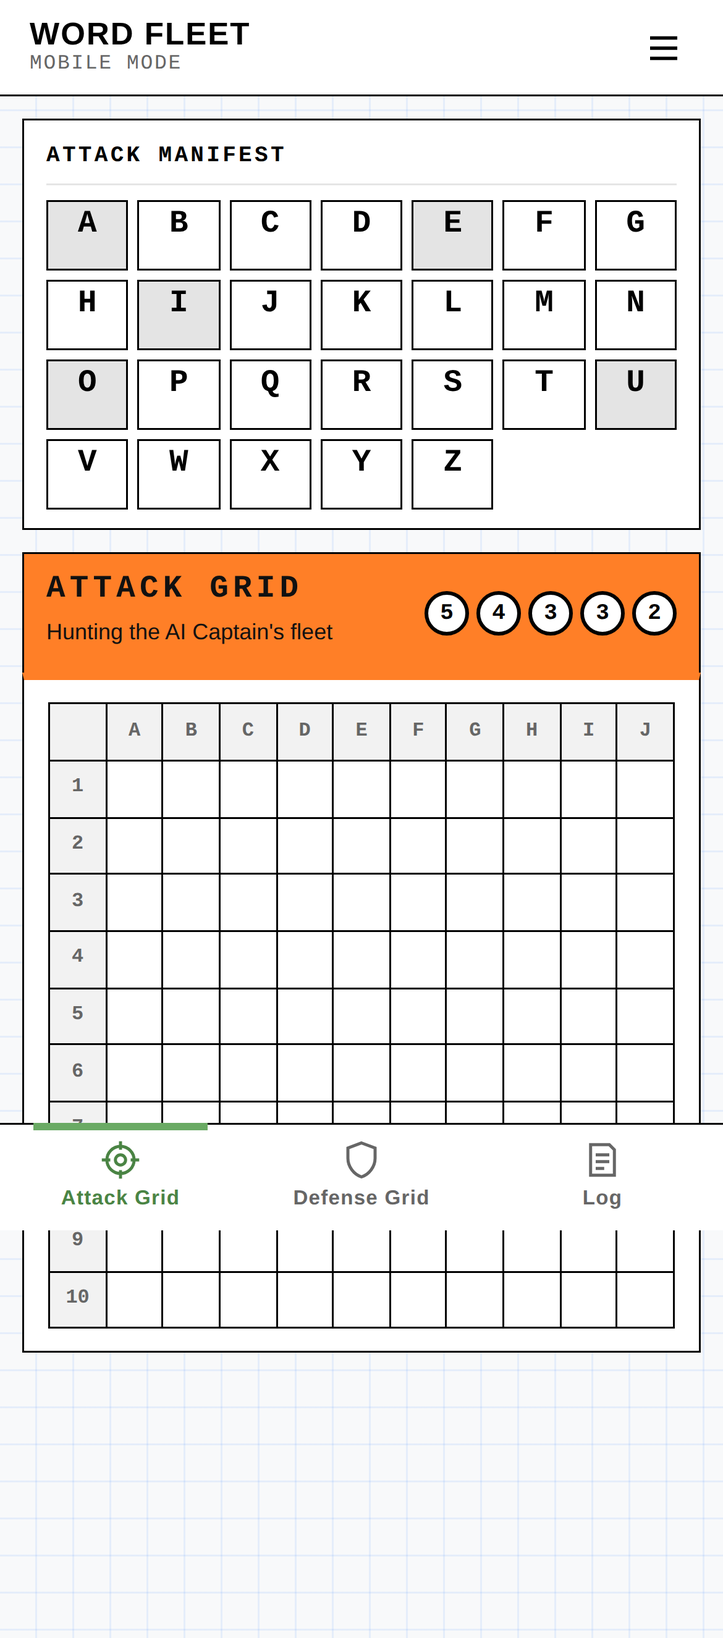
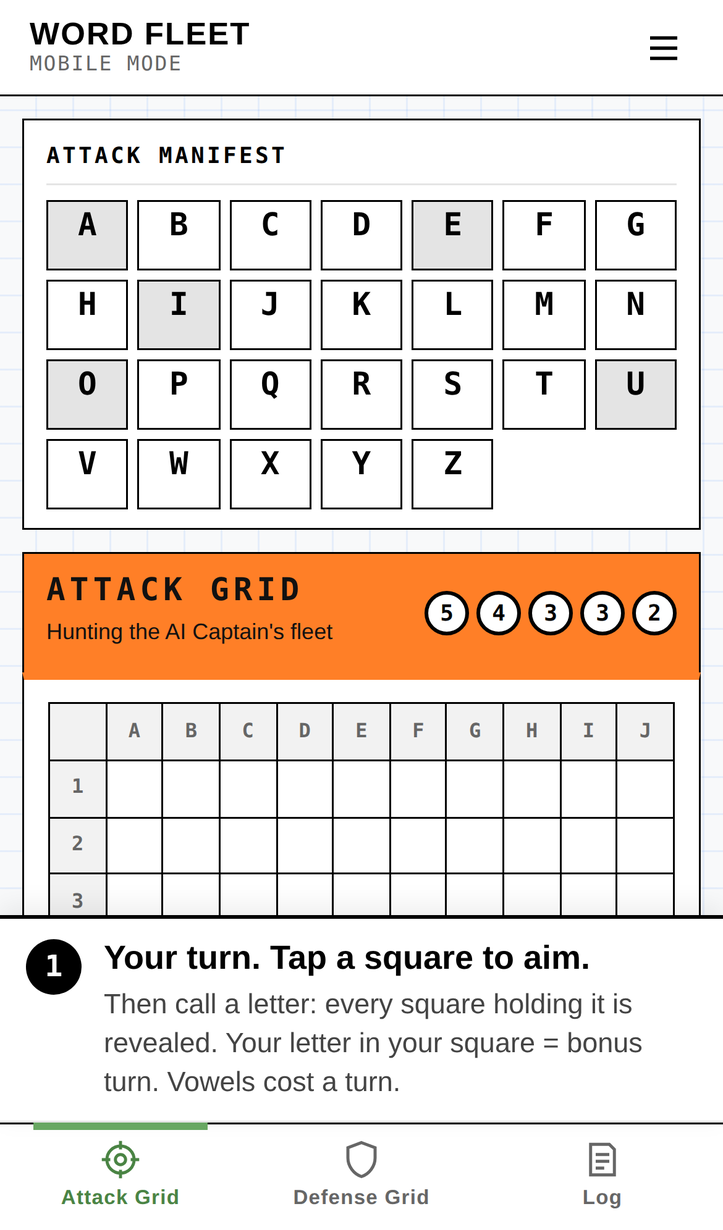
Battle flow overhaul: coach bar replaces the turn popups; grid reveal animation and aim marker; compact letter picker; Solve a Word on demand; AI turn stays on your tab; fading hints with a Hints switch
Claude-Session: https://claude.ai/code/session_013sUGAAEC45a1EJCrQWVj9Q

diff --git a/mobile/app.js b/mobile/app.js
@@ -360,7 +360,7 @@
 
   // Buttons are always one line: text that doesn't fit shrinks (down to 12px) instead of wrapping.
   function fitButtons(root) {
-    var els = (root || document).querySelectorAll('.screen.is-on .btn, #sheet:not([hidden]) .btn');
+    var els = root ? root.querySelectorAll('.btn') : document.querySelectorAll('.screen.is-on .btn, #sheet:not([hidden]) .btn, #coach .btn');
     Array.prototype.forEach.call(els, function (el) {
       el.style.fontSize = '';
       if (!el.offsetParent || el.scrollWidth <= el.clientWidth) return;
@@ -707,17 +707,18 @@
           (t ? pips(t, t, 'is-found') : '<span class="mf-none">none</span>') + '</div>';
       }
       return '<button type="button" class="mf is-callable' + (v ? ' is-vowel' : '') + '" data-letter="' + L + '">' +
-        '<span class="mf-l">' + L + '</span>' + (v ? '<span class="mf-vowel">−1 turn</span>' : '<span class="pips"></span>') + '</button>';
+        '<span class="mf-l">' + L + '</span>' + (v ? '<span class="mf-vowel">\u22121</span>' : '<span class="pips"></span>') + '</button>';
     }).join('');
-    openSheet('<h2>Square ' + coordK(k) + '</h2>' +
-      '<p class="hint" style="margin:2px 0 0">Call a letter. If it\'s in ' + coordK(k) + ', you get a <strong>bonus turn</strong>. Vowels cost your next turn.</p>' +
-      '<div class="manifest manifest--pick">' + letters + '</div>' +
-      '<button class="btn btn--ghost btn--wide" type="button" data-act="close">Cancel</button>', true, '006-MOBILE-CALL-LETTER');
+    // Compact: the target in the title, vowels marked −1, tap outside to cancel.
+    openSheet('<h2>Calling for ' + coordK(k) + '</h2>' +
+      (hintsOn() ? '<p class="hint" style="margin:2px 0 0">If your letter is in ' + coordK(k) + ', you get a bonus turn. Vowels (\u22121) cost your next turn.</p>' : '') +
+      '<div class="manifest manifest--pick">' + letters + '</div>', true, '006-MOBILE-CALL-LETTER');
   }
 
   function renderAttack() {
     var mine = S.turn === 'me';
     var live = canCall();
+    var info = S.result && S.result.info;
     // Ship status: yellow once some of its letters show, green once all of them do.
     $('bubbles').innerHTML = S.foe.ships.map(function (ship, i) {
       var shots = cellsOf(ship).map(function (p) { return S.myShots[key(p.r, p.c)]; });
@@ -731,65 +732,106 @@
       var s = S.myShots[k];
       var o = s && s.letter ? { cls: 'is-bull', text: s.letter, off: true } : s && s.empty ? { cls: 'is-empty', off: true } : {};
       if (ui.sel === k && !(s && s.letter)) o.cls = (o.cls || '') + ' is-target';
-      if (ui.flash && ui.flash.indexOf(k) !== -1) o.cls = (o.cls || '') + ' is-flash';
+      // The story of your call, told on the grid: new letters flip in one by one, and the square
+      // you aimed at keeps a marker (gold ✓ when the letter was there) until your turn ends.
+      var fi = ui.flash ? ui.flash.indexOf(k) : -1;
+      if (fi !== -1) o.cls = (o.cls || '') + ' is-flip is-d' + Math.min(fi, 6);
+      if (info && info.k === k) o.cls = (o.cls || '') + (info.bonus ? ' is-aim is-aim-hit' : ' is-aim');
       return o;
     }, live);
+    if (ui.flash) { clearTimeout(ui.flashTimer); ui.flashTimer = setTimeout(function () { ui.flash = null; }, 1800); }
 
     // Attack Manifest (display only): called letters with one dot per square revealed.
     $('attackManifest').innerHTML = LETTERS.map(function (L) {
       var t = S.myTallies[L], cls = 'mf' + (isVowel(L) && t == null ? ' is-vowel' : '');
       var under = t == null ? '<span class="pips"></span>' : t ? pips(t, t, 'is-found') : '<span class="mf-none">none</span>';
       if (t != null) cls += t ? ' is-done' : ' is-zero';
+      if (info && info.L === L && ui.flash) cls += ' is-pulse';
       return '<div class="' + cls + '"><span class="mf-l">' + L + '</span>' + under + '</div>';
     }).join('');
 
+    // The popup is only for Solve a Word and Demand Surrender; everything else is the coach bar.
     var fp = $('firePanel');
-    // Demand Surrender lives in the \u2630 menu, not in these popups.
-    var pkey, dismissible;
-    if (ui.demand && mine) {
-      pkey = 'demand'; dismissible = true;
-      fp.innerHTML = demandForm();
-    } else if (S.result) {
-      pkey = 'result:' + S.log.length + (S.result.bonus ? ':bonus' : '');
-      dismissible = true;   // close it to look at the grid; the reopen button brings it back
-      fp.innerHTML = '<div class="card-title">' + S.result.title + '</div>' + S.result.html +
-        (S.result.solve ? solveBox() : '') +
-        (S.result.bonus ? '<button class="btn btn--bonus btn--wide" type="button" data-act="panelOk">\u2605 Take Your Bonus Turn</button>'
-                        : mine ? '<button class="btn btn--primary btn--wide" type="button" data-act="endTurn">End Turn</button>'
-                               : '<p class="waiting">AI Captain is choosing a square\u2026</p>');
-    } else if (!mine) {
-      pkey = 'wait'; dismissible = false;
-      fp.innerHTML = '<p class="waiting">AI Captain is choosing a square\u2026</p>';
-    } else {
-      pkey = 'turn:' + S.log.length; dismissible = true;   // a new key every move, so each turn pops up once
-      fp.innerHTML = '<div class="card-title">Your Turn</div>' +   // no count of letters in play
-        (S.notice ? '<p class="notice">' + S.notice + '</p>' : '') +
-        '<p class="hint" style="margin-top:0">Tap a square on the Attack Grid, then call a letter. Every square holding it is revealed. If it\'s in the square you picked, you get a <strong>bonus turn</strong>. Vowels cost your next turn.</p>' +
-        '<button class="btn btn--primary btn--wide" type="button" data-act="panelOk">To the Attack Grid</button>';
-    }
-    ui.panelKey = pkey; ui.panelDismissible = dismissible;
-    $('panelSheet').classList.toggle('is-bonus', !!(S.result && S.result.bonus && !ui.demand));
+    if (ui.demand && mine) fp.innerHTML = demandForm();
+    else if (ui.solving && mine && S.result && S.result.solve) fp.innerHTML = solveBox();
+    else { ui.demand = false; ui.solving = false; fp.innerHTML = ''; }
     refreshPanel();
+    renderCoach();
   }
 
-  // The turn panel is always a popup over the Attack Grid. It stays shut once closed until something new
-  // happens (a new key), and steps aside while the letter picker or menu is open.
   function refreshPanel() {
-    var show = current === 'battle' && S && S.phase === 'battle' && ui.tab === 'Attack' &&
-      ui.panelKey && ui.panelKey !== ui.panelClosed && $('sheet').hidden;
+    var mode = ui.demand ? 'demand' : ui.solving ? 'solve' : '';
+    var show = !!mode && current === 'battle' && S && S.phase === 'battle' && ui.tab === 'Attack' && $('sheet').hidden;
     $('panelSheet').hidden = !show;
     $('panelScrim').hidden = !show;
-    $('panelClose').hidden = !ui.panelDismissible;
-    // A closed result (not a bonus turn) leaves a button above the tabs to bring it back and end the turn.
-    $('panelReopen').hidden = show || !(current === 'battle' && S && S.phase === 'battle' && ui.tab === 'Attack' && $('sheet').hidden &&
-      ui.panelKey && ui.panelKey === ui.panelClosed && /^result:/.test(ui.panelKey) && !/:bonus$/.test(ui.panelKey));
-    $('panelSheet').setAttribute('data-screen', ui.panelKey === 'demand' ? '009-MOBILE-SURRENDER' : '005-MOBILE-ATTACK-POPUP');
+    $('panelSheet').setAttribute('data-screen', mode === 'demand' ? '009-MOBILE-SURRENDER' : '005-MOBILE-SOLVE');
     if (show) fitButtons($('panelSheet'));
+    renderCoach();
   }
   function closePanel() {
-    if (!ui.panelDismissible) return;
-    if (ui.panelKey === 'demand') { ui.demand = false; ui.panelClosed = null; renderAttack(); return; }
-    ui.panelClosed = ui.panelKey; refreshPanel();
+    ui.demand = false; ui.solving = false;
+    renderAttack();
+  }
+
+  // ------------------------------------------------------------
+  // COACH BAR: one line above the tabs that always says what to do next.
+  // ------------------------------------------------------------
+  var HINT_KEY = 'wordfleet-hints', CALLS_KEY = 'wordfleet-calls';
+  function getPref(k) { try { return localStorage.getItem(k); } catch (e) { return null; } }
+  function setPref(k, v) { try { localStorage.setItem(k, v); } catch (e) { /* ignore */ } }
+  // Longer hints for a captain's first two calls ever, or whenever Hints is switched on in the menu.
+  function hintsOn() { return getPref(HINT_KEY) === 'on' || (+getPref(CALLS_KEY) || 0) < 2; }
+
+  function aiMoveLine(ev) {
+    if (ev.skip) return 'You called a vowel, so you lost a turn.';
+    return 'AI Captain called <b>' + ev.letter + '</b> at <b>' + coordK(ev.square) + '</b> \u00b7 tally ' + ev.tally +
+      (ev.bonus ? ' \u00b7 \u2605 bonus turn' : '') + (ev.solve ? ' \u00b7 solved ' + (ev.solve.ok ? ev.solve.word : 'nothing') : '');
+  }
+
+  function renderCoach() {
+    var el = $('coach');
+    var show = current === 'battle' && S && S.phase === 'battle' && !ui.demand && !ui.solving;
+    el.hidden = !show;
+    if (!show) return;
+    var mine = S.turn === 'me', r = S.result, info = r && r.info, hint = hintsOn();
+    var step = '', main = '', pre = [], sub = [], btns = '', cls = '';   // pre: news above the instruction; sub: details below
+    if (!mine) {
+      cls = 'is-wait';
+      main = 'AI Captain is aiming<span class="dots"><i>.</i><i>.</i><i>.</i></span>';
+      if (hint) sub.push('It calls a letter on your fleet. Watch the Defense Grid.');
+    } else if (ui.sel) {
+      step = '2'; main = 'Call a letter for <b>' + coordK(ui.sel) + '</b>';
+    } else if (r && info && info.bonus) {
+      cls = 'is-bonus'; step = '\u2605';
+      main = 'Bonus turn! <b>' + info.L + '</b> was at <b>' + coordK(info.k) + '</b>. Tap another square.';
+      if (r.solveRes) sub.push('Solve ' + r.solveRes.word + ': ' + (r.solveRes.ok ? '<b>Correct.</b>' : '<b>Negative.</b>'));
+      if (r.solve && !r.solveRes) btns += '<button class="btn btn--sm" type="button" data-coach="solve">Solve a Word</button>';
+    } else if (r && info) {
+      step = '3';
+      main = '<span class="say">"' + info.L + ' tally ' + info.t + '."</span> ' +
+        (info.t ? 'Revealed at ' + info.cells.map(coordK).join(', ') + '.' : info.open ? coordK(info.k) + ' is open water.' : info.L + ' isn\'t in their fleet.');
+      if (info.vowel) sub.push('<span class="coach-warn">Vowel: you skip your next turn.</span>');
+      if (r.solveRes) sub.push('Solve ' + r.solveRes.word + ': ' + (r.solveRes.ok ? '<b>Correct.</b>' : '<b>Negative.</b>'));
+      else if (hint && r.solve) sub.push('Know a whole word? Solve it to reveal it.');
+      if (r.solve && !r.solveRes) btns += '<button class="btn btn--sm" type="button" data-coach="solve">Solve a Word</button>';
+      btns += '<button class="btn btn--sm btn--primary" type="button" data-coach="end">End Turn</button>';
+    } else if (r) {
+      // A result saved by an older version: no details, just the way on.
+      step = '3'; main = r.title;
+      btns = '<button class="btn btn--sm btn--primary" type="button" data-coach="end">End Turn</button>';
+    } else {
+      (S.incoming || []).forEach(function (ev) { pre.push(aiMoveLine(ev)); });
+      if (S.notice) pre.push(S.notice);
+      step = '1'; main = 'Your turn. Tap a square to aim.';
+      if (hint) sub.push('Then call a letter: every square holding it is revealed. Your letter in your square = bonus turn. Vowels cost a turn.');
+    }
+    el.className = 'coach ' + cls;
+    el.innerHTML = (step ? '<span class="coach-step">' + step + '</span>' : '') +
+      '<div class="coach-body">' + pre.map(function (x) { return '<div class="coach-news">' + x + '</div>'; }).join('') +
+      '<div class="coach-main">' + main + '</div>' +
+      sub.map(function (x) { return '<div class="coach-sub">' + x + '</div>'; }).join('') +
+      (btns ? '<div class="coach-btns">' + btns + '</div>' : '') + '</div>';
+    fitButtons(el);
   }
 
   function renderDefense() {
@@ -929,15 +971,18 @@
       (t ? revealNote(L, cells, 'the AI Captain\'s') : '<p class="hint">' + L + ' is nowhere in the AI Captain\'s fleet.</p>') +
       (bonus ? '<p class="bonus">\u2605 Bonus turn! ' + L + ' was hiding at ' + coordK(k) + '.</p>' : (at ? '' : '<p class="hint">' + coordK(k) + ' is open water.</p>')) +
       (vowel ? '<p class="notice">Vowel: you lose your next turn.</p>' : '');
+    setPref(CALLS_KEY, (+getPref(CALLS_KEY) || 0) + 1);
     showResult(bonus ? '\u2605 Bonus Turn!' : 'Calling ' + NATO[L], html, t > 0, bonus);
+    S.result.info = { L: L, t: t, k: k, cells: cells, bonus: bonus, vowel: vowel, open: !at };
+    save(); renderBattle();
   }
 
   // --- solve a word (after calling a letter that is in the fleet) ---
   function solveBox() {
-    return '<div class="solve" id="solveBox"><span class="label">Solve a Word (optional)</span>' +
+    return '<div class="card-title">Solve a Word</div><div class="solve" id="solveBox">' +
       '<div class="input-row"><input class="input" id="solveIn" maxlength="5" autocomplete="off" autocapitalize="characters" autocorrect="off" spellcheck="false" placeholder="WORD">' +
-      '<button class="btn" type="button" data-act="solve">Solve</button></div>' +
-      '<p class="hint">Name one of the AI Captain\'s word-ships. Get it right and the whole word is revealed.</p></div>';
+      '<button class="btn btn--primary" type="button" data-act="solve">Solve</button></div>' +
+      (hintsOn() ? '<p class="hint">Name one of the AI Captain\'s word-ships. Get it right and the whole word is revealed.</p>' : '') + '</div>';
   }
 
   // Fill in every square of the first unsolved word-ship spelling `word`.
@@ -974,7 +1019,8 @@
       html = '<div class="report is-bad"><div class="report-q">"Solve: ' + word + '!"</div><div class="report-a">"Negative."</div></div>';
     }
     S.result.html += html;
-    S.result.solve = false;
+    S.result.solveRes = { word: word, ok: !!res };
+    ui.solving = false;
     save();
     renderBattle();
   }
@@ -1194,8 +1240,8 @@
     S.incoming.push(ev);
     if (!bonus) passTurn('me');     // a bonus turn keeps it with the AI Captain
     save();
-    // Show the damage on the Defense Grid; the report there leads back to the Attack Grid.
-    switchTab('Defense');
+    // Stay put: the coach bar reports the AI Captain's move and the Defense tab gets a dot.
+    renderBattle();
   }
 
   // ------------------------------------------------------------
@@ -1264,6 +1310,7 @@
       (window.WFAudio ? '<div class="switches">' +
         '<label class="switch-row"><span>Sound Effects</span><input type="checkbox" class="switch" data-audio="sfx"' + (window.WFAudio.sfxOn() ? ' checked' : '') + '></label>' +
         '<label class="switch-row"><span>Music</span><input type="checkbox" class="switch" data-audio="music"' + (window.WFAudio.musicOn() ? ' checked' : '') + '></label>' +
+        '<label class="switch-row"><span>Hints</span><input type="checkbox" class="switch" data-hints="1"' + (getPref(HINT_KEY) === 'on' ? ' checked' : '') + '></label>' +
         '</div>' : '') +
       '<button class="btn btn--ghost btn--wide" type="button" data-act="close">Close</button></div>', true, 'MOBILE-MENU');
   }
@@ -1468,7 +1515,6 @@
     if (!b) return;
     var act = b.getAttribute('data-act');
     if (act === 'demand') { ui.demand = true; renderAttack(); $('panelSheet').scrollTop = 0; }
-    else if (act === 'panelOk') closePanel();
     else if (act === 'belay') { ui.demand = false; renderAttack(); }
     else if (act === 'endTurn') endMyTurn();
     else if (act === 'solve') humanSolve();
@@ -1489,17 +1535,26 @@
     if (!b) return;
     var tab = b.getAttribute('data-tab');
     // Heading back to the Attack Grid counts as reading the incoming report.
-    if (tab === 'Attack' && S.turn === 'me' && S.incoming.length) { S.incoming = []; save(); }
     switchTab(tab);
   });
 
   on($('btnAgain'), 'click', function () { newGame(); show('setup'); });
 
   // sheet
-  on($('scrim'), 'click', function () { if (sheetDismissible) closeSheet(); });
+  on($('scrim'), 'click', function () {
+    if (!sheetDismissible) return;
+    closeSheet();
+    if (ui.sel && current === 'battle') { ui.sel = null; renderAttack(); }   // tapped outside the letter picker: cancel the aim
+  });
   on($('panelScrim'), 'click', closePanel);
   on($('panelClose'), 'click', closePanel);
-  on($('panelReopen'), 'click', function () { ui.panelClosed = null; refreshPanel(); });
+  on($('coach'), 'click', function (e) {
+    var b = e.target.closest('[data-coach]');
+    if (!b) return;
+    var act = b.getAttribute('data-coach');
+    if (act === 'end') endMyTurn();
+    else if (act === 'solve') { ui.solving = true; switchTab('Attack'); setTimeout(function () { var i = $('solveIn'); if (i) i.focus(); }, 50); }
+  });
   on($('sheetBody'), 'click', function (e) {
     var k = e.target.closest('[data-letter]');
     if (k) { humanCall(k.getAttribute('data-letter')); return; }
@@ -1508,7 +1563,7 @@
     var act = b.getAttribute('data-act');
     if (act === 'close') { closeSheet(); if (ui.sel && current === 'battle') { ui.sel = null; renderAttack(); } }
     else if (act === 'rules') openRules();
-    else if (act === 'menuDemand') { closeSheet(); ui.demand = true; ui.panelClosed = null; switchTab('Attack'); }
+    else if (act === 'menuDemand') { closeSheet(); ui.demand = true; switchTab('Attack'); }
     else if (act === 'home') { closeSheet(); show('home'); }
     else if (act === 'newBattle') { if (newBattle()) closeSheet(); }
     else if (act === 'abandon') {
@@ -1520,6 +1575,7 @@
     else if (act === 'install') { ui.installEvt.prompt(); ui.installEvt = null; closeSheet(); }
   });
   on($('sheetBody'), 'change', function (e) {
+    if (e.target.hasAttribute('data-hints')) { setPref(HINT_KEY, e.target.checked ? 'on' : 'off'); if (current === 'battle') renderBattle(); return; }
     var which = e.target.getAttribute('data-audio');
     if (which === 'sfx') window.WFAudio.setSfx(e.target.checked);
     if (which === 'music') window.WFAudio.setMusic(e.target.checked);
@@ -1556,7 +1612,6 @@
       S.me.words = randomWords(); save();
     }
     // MOBILE-HOME is parked: the app opens on 001-MOBILE-PREPARE (or the battle in progress).
-    if (S && S.phase === 'battle' && S.incoming.length) ui.tab = 'Defense';
     resume();
   });
 

diff --git a/mobile/app.css b/mobile/app.css
@@ -616,3 +616,34 @@ button.mf { font: inherit; color: var(--ink); width: 100%; padding: 3px 0 2px; c
   width: calc(100% - 24px); max-width: 520px; background: var(--green); font-weight: 700; box-shadow: 0 4px 14px rgba(0,0,0,0.25); }
 .panel-reopen:active:not(:disabled) { background: var(--green-dark); color: var(--ink); }
 #tabAttack { padding-bottom: 72px; }
+
+/* ---------- COACH BAR (battle): what to do next, docked above the tabs ---------- */
+.coach { position: fixed; left: 0; right: 0; bottom: calc(var(--tab-h) + var(--safe-b)); z-index: 22; max-width: 560px; margin: 0 auto;
+  display: flex; gap: 12px; align-items: flex-start; background: var(--paper); border-top: 2px solid var(--ink); border-bottom: 1px solid var(--faint);
+  padding: 10px 14px; box-shadow: 0 -4px 14px rgba(0,0,0,0.08); }
+.coach-step { flex-shrink: 0; width: 30px; height: 30px; border-radius: 50%; background: var(--ink); color: var(--paper);
+  display: grid; place-items: center; font-family: var(--mono); font-weight: 700; font-size: 16px; margin-top: 1px; }
+.coach-body { flex: 1; min-width: 0; }
+.coach-main { font-size: 18px; font-weight: 700; line-height: 1.3; }
+.coach-main .say { font-family: var(--mono); }
+.coach-news { font-size: 15px; color: var(--ink); background: #fff1e6; border-left: 4px solid var(--foe); padding: 4px 8px; margin-bottom: 6px; }
+.coach-sub { font-size: 15px; color: #444; line-height: 1.4; margin-top: 3px; }
+.coach-warn { color: var(--red); font-weight: 700; }
+.coach-btns { display: flex; gap: 8px; margin-top: 8px; }
+.coach-btns .btn { flex: 1; min-height: 44px; font-size: 16px; }
+.coach.is-bonus { background: var(--gold-bonus); }
+.coach.is-bonus .coach-step { background: var(--ink); color: var(--gold-bonus); }
+.coach.is-wait .coach-main { color: #555; }
+.coach .dots i { font-style: normal; animation: blink 1s infinite alternate; }
+.coach .dots i:nth-child(2) { animation-delay: 0.2s; } .coach .dots i:nth-child(3) { animation-delay: 0.4s; }
+#scrBattle .tab { padding-bottom: 150px; }
+/* New letters flip in one by one; the aimed square keeps a marker; the called letter's tile pulses */
+.cell.is-flip { animation: flipin 0.5s ease-out both; }
+.cell.is-d1 { animation-delay: 0.15s; } .cell.is-d2 { animation-delay: 0.3s; } .cell.is-d3 { animation-delay: 0.45s; }
+.cell.is-d4 { animation-delay: 0.6s; } .cell.is-d5 { animation-delay: 0.75s; } .cell.is-d6 { animation-delay: 0.9s; }
+@keyframes flipin { 0% { transform: rotateY(90deg); background: var(--gold-bonus); } 60% { transform: rotateY(0); background: var(--gold-bonus); } 100% { transform: none; } }
+.cell.is-aim { box-shadow: inset 0 0 0 3px var(--ink); position: relative; }
+.cell.is-aim-hit { box-shadow: inset 0 0 0 3px #c99a00; background: var(--gold-bonus) !important; }
+.cell.is-aim-hit::after { content: "\2713"; position: absolute; top: 0; right: 2px; font-size: 10px; line-height: 1.2; }
+.mf.is-pulse { animation: pulse 0.6s ease-out 3; }
+@keyframes pulse { 0% { box-shadow: 0 0 0 0 rgba(0,0,0,0.5); } 100% { box-shadow: 0 0 0 10px rgba(0,0,0,0); } }

diff --git a/mobile/index.html b/mobile/index.html
@@ -18,7 +18,7 @@
   <link rel="preconnect" href="https://fonts.gstatic.com" crossorigin>
   <link href="https://fonts.googleapis.com/css2?family=Courier+Prime:wght@400;700&family=Inter:wght@400;500;600;700&display=swap" rel="stylesheet">
   <!-- Bump ?v= on every release (and CACHE in sw.js) so a new page never runs old code. -->
-  <link rel="stylesheet" href="app.css?v=97">
+  <link rel="stylesheet" href="app.css?v=98">
 </head>
 <body>
 
@@ -231,19 +231,20 @@
   <div class="sheet-body" id="sheetBody"></div>
 </div>
 
-<!-- ============ ATTACK POPUP: the Attack tab's turn panel (your turn, call result, AI's turn,
-     009-MOBILE-SURRENDER) always shows here, over the grid. Sits under the letter-picker sheet. ============ -->
+<!-- ============ ATTACK POPUP: only for Solve a Word (005-MOBILE-SOLVE) and Demand Surrender (009-MOBILE-SURRENDER).
+     Everything else in a turn is the coach bar. Sits under the letter-picker sheet. ============ -->
 <div class="scrim scrim--panel" id="panelScrim" hidden></div>
-<button class="btn panel-reopen" id="panelReopen" type="button" hidden>&#x25B2; Back to Result &middot; End Turn</button>
+<!-- COACH BAR: one line above the tabs during battle that says what to do next (renderCoach in app.js) -->
+<div class="coach" id="coach" role="status" aria-live="polite" hidden></div>
 <div class="sheet sheet--panel" id="panelSheet" role="dialog" aria-modal="true" aria-label="Turn" hidden>
-  <button class="sheet-x" id="panelClose" type="button" aria-label="Close">&times;</button>
+  <button class="sheet-x" id="panelClose" type="button" aria-label="Cancel">&times;</button>
   <div id="firePanel"></div>
 </div>
 
 <div class="toast" id="toast" hidden></div>
 <div class="bonus-banner" id="bonusBanner" role="status" aria-live="assertive" hidden></div>
 
-<script src="audio.js?v=97"></script>
-<script src="app.js?v=97"></script>
+<script src="audio.js?v=98"></script>
+<script src="app.js?v=98"></script>
 </body>
 </html>

diff --git a/mobile/sw.js b/mobile/sw.js
@@ -1,11 +1,11 @@
 /* Word Fleet service worker: the whole game works offline once loaded. */
-var CACHE = 'wordfleet-v97';
+var CACHE = 'wordfleet-v98';
 var SHELL = [
   './',
   'index.html',
-  'app.css?v=97',
-  'app.js?v=97',
-  'audio.js?v=97',
+  'app.css?v=98',
+  'app.js?v=98',
+  'audio.js?v=98',
   'manifest.webmanifest',
   'icons/icon-180.png',
   'icons/icon-192.png',

diff --git a/mobile/screens/README.md b/mobile/screens/README.md
@@ -12,11 +12,11 @@ referred to by name when asking for changes. Each has a reference snapshot in th
 | **002-MOBILE-OPPONENT** | `<section id="scrOpponent" data-screen="002-MOBILE-OPPONENT">`, `SCREENS.opponent` | `002-mobile-opponent.png` | Header line: your flag and fleet name. Card title "Choose Your Opponent", section "Pick the AI Captain you'll face": 🦆 Rubber Duck, ⚓ Steady, 📖 Lexicon, each with a character sketch and five example words (5, 4, 3, 3, 2 letters) from that captain's tier of the chosen dictionary, never offensive. "NEXT: WORD-SHIPS" (50%), Back. |
 | **003-MOBILE-WORD-SHIPS** | `<section id="scrWords" data-screen="003-MOBILE-WORD-SHIPS">`, `SCREENS.words` | `003-mobile-word-ships.png` | Header line: your flag and fleet name. Card title "Build Your Word-Ships". "Allow possibly offensive words" switch ("Applies to both fleets."). Section "Check your five word-ships" with ↻ REFRESH ALL; "Tap any word to type your own." Each word has a ↻ redraw; a typed word is checked against the dictionary when its box loses focus, and all are checked on "NEXT: DEPLOY" (75%). Back. |
 | **004-MOBILE-DEPLOY** | `<section id="scrDeploy" data-screen="004-MOBILE-DEPLOY">`, `SCREENS.deploy` | `004-mobile-deploy.png` | Step 4 of 4 of Prepare for Battle, same look as 001-003; header line: your flag and fleet name. Card title "Deploy Your Fleet", then the Defense Grid dressed like the in-game one ("DEFENSE GRID PREVIEW" banner with your fleet name under it, in your fleet's colors from 001: color 1 behind, color 2 for the text, color 1 along the top edge). Opens with the five word-ships already deployed at random, in green; they never leave the grid. Section "Keep this layout or rearrange it" with ⇄ SHUFFLE (new random layout); drag a ship to move it, double-tap its first letter to turn it. "LET THE BATTLE BEGIN!" (progress bar full), Back. |
-| **005-MOBILE-ATTACK** | `<div id="tabAttack" data-screen="005-MOBILE-ATTACK">` in `#scrBattle`; popup `#panelSheet` | `005-mobile-attack.png`, `005-mobile-attack-popup.png`, `005-mobile-bonus-turn.png` | Battle, Attack Grid tab: the Attack Manifest on top, then the Attack Grid under its Signal Orange banner with the five ship circles. No turn chip in the header. The turn panel is always a popup over the grid (between the top bar and the tab bar, which stay usable): "Your Turn" (no count of letters in play; "To the Attack Grid"; closable), the result of your call (Solve a Word, End Turn; closable, then "▲ BACK TO RESULT · END TURN" above the tabs reopens it), "AI Captain is choosing a square…", and 009-MOBILE-SURRENDER. Each pops up once per move; once closed it stays shut until the next move. Demand Surrender is only in the ☰ menu (during your turn, bonus turns included). Right letter in the right square: the bonus sound (ship's bell twice, rising fanfare, sparkle), a "★ BONUS TURN!" flash over the top bar with a short buzz on phones, and the popup turns gold with "★ TAKE YOUR BONUS TURN". |
-| **006-MOBILE-CALL-LETTER** | sheet, `data-screen="006-MOBILE-CALL-LETTER"` | `006-mobile-call-letter.png` | Opens when you tap a hidden square: pick a letter to call (vowels marked −1 turn), or Cancel. |
+| **005-MOBILE-ATTACK** | `<div id="tabAttack" data-screen="005-MOBILE-ATTACK">` in `#scrBattle`; coach bar `#coach` | `005-mobile-attack.png`, `005-mobile-bonus-turn.png`, `005-mobile-solve.png` | Battle, Attack Grid tab: the Attack Manifest on top, then the Attack Grid under its Signal Orange banner. The **coach bar** above the tabs always says what to do next, with a step marker and at most two buttons: ① "Your turn. Tap a square to aim." (with the AI Captain's last move above it) → ② "Call a letter for D4" → ③ '"T tally 2." Revealed at D6, C6' with SOLVE A WORD and END TURN; ★ gold for a bonus turn; "AI Captain is aiming…" on its turn. The grid tells the story: new letters flip in one by one, the aimed square keeps a marker (gold ✓ when the letter was there), the called letter's manifest tile pulses. Bonus turn also plays the bell-and-fanfare and flashes "★ BONUS TURN!". Longer hints for a captain's first two calls, or with Hints on in the ☰ menu. Solve a Word (`005-MOBILE-SOLVE`) and Demand Surrender (009, ☰ menu only) are the only popups. The AI's turn no longer jumps to the Defense tab; its tab gets a red dot. |
+| **006-MOBILE-CALL-LETTER** | sheet, `data-screen="006-MOBILE-CALL-LETTER"` | `006-mobile-call-letter.png` | Opens when you tap a hidden square: "Calling for D4", tap a letter (vowels marked −1). Tap outside to cancel. |
 | **007-MOBILE-DEFENSE** | `<div id="tabDefense" data-screen="007-MOBILE-DEFENSE">` | `007-mobile-defense.png` | Battle, Defense Grid tab: banner in your fleet colors with your fleet name; incoming report, your fleet with the AI Captain's picks, the Defense Manifest. |
 | **008-MOBILE-LOG** | `<div id="tabLog" data-screen="008-MOBILE-LOG">` | `008-mobile-log.png` | Battle, Log tab: small "CAPTAIN'S LOG" then your flag and fleet name, as on the Prepare screens. Below, newest on top, a plain list with an ⚓ bullet on every entry; your moves and the AI Captain's show that side's flag and fleet name, Fleet Command notices are just the text. |
-| **009-MOBILE-SURRENDER** | the Attack popup in Demand Surrender mode, `#panelSheet[data-screen="009-MOBILE-SURRENDER"]` | `009-mobile-surrender.png` | Name every AI word-ship, its first square and heading; "I Demand Your Surrender!" asks once more before it counts. |
+| **009-MOBILE-SURRENDER** | the Attack popup in Demand Surrender mode (open it from the ☰ menu), `#panelSheet[data-screen="009-MOBILE-SURRENDER"]` | `009-mobile-surrender.png` | Name every AI word-ship, its first square and heading; "I Demand Your Surrender!" asks once more before it counts. |
 | **010-MOBILE-GAME-OVER** | `<section id="scrOver" data-screen="010-MOBILE-GAME-OVER">`, `SCREENS.over` | `010-mobile-game-over.png` | Result (no chip in the header), stats, New Battle, and both fleets revealed, each with its flag: the AI Captain's fixed Signal Orange & Black (`FOE_SCHEME`, bright background with dark text, the reverse of every player scheme) and yours in your scheme. |
 | **MOBILE-MENU** *(any screen)* | sheet, `data-screen="MOBILE-MENU"` | `mobile-menu.png` | The ☰ menu: New Battle, Rules of Engagement, Home Port, By The Game Bureau, Abandon Battle, Sound Effects and Music switches. |
 | **MOBILE-RULES** *(any screen)* | sheet, `data-screen="MOBILE-RULES"` | `mobile-rules.png` | Rules of Engagement. |
